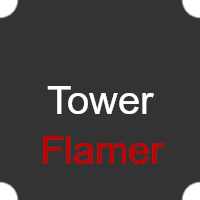
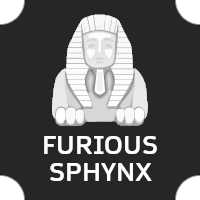
updated button, flamer textures

diff --git a/src/game.py b/src/game.py
@@ -259,6 +259,8 @@ class Tower(pygame.sprite.Sprite):
         self.range = 120
         self.fireRate = 100
 
+        self.image = pygame.transform.scale(self.image, (80, 80))
+
         self.rect = self.image.get_rect(center=self.position)
 
         print("Flamer tower spawned")
